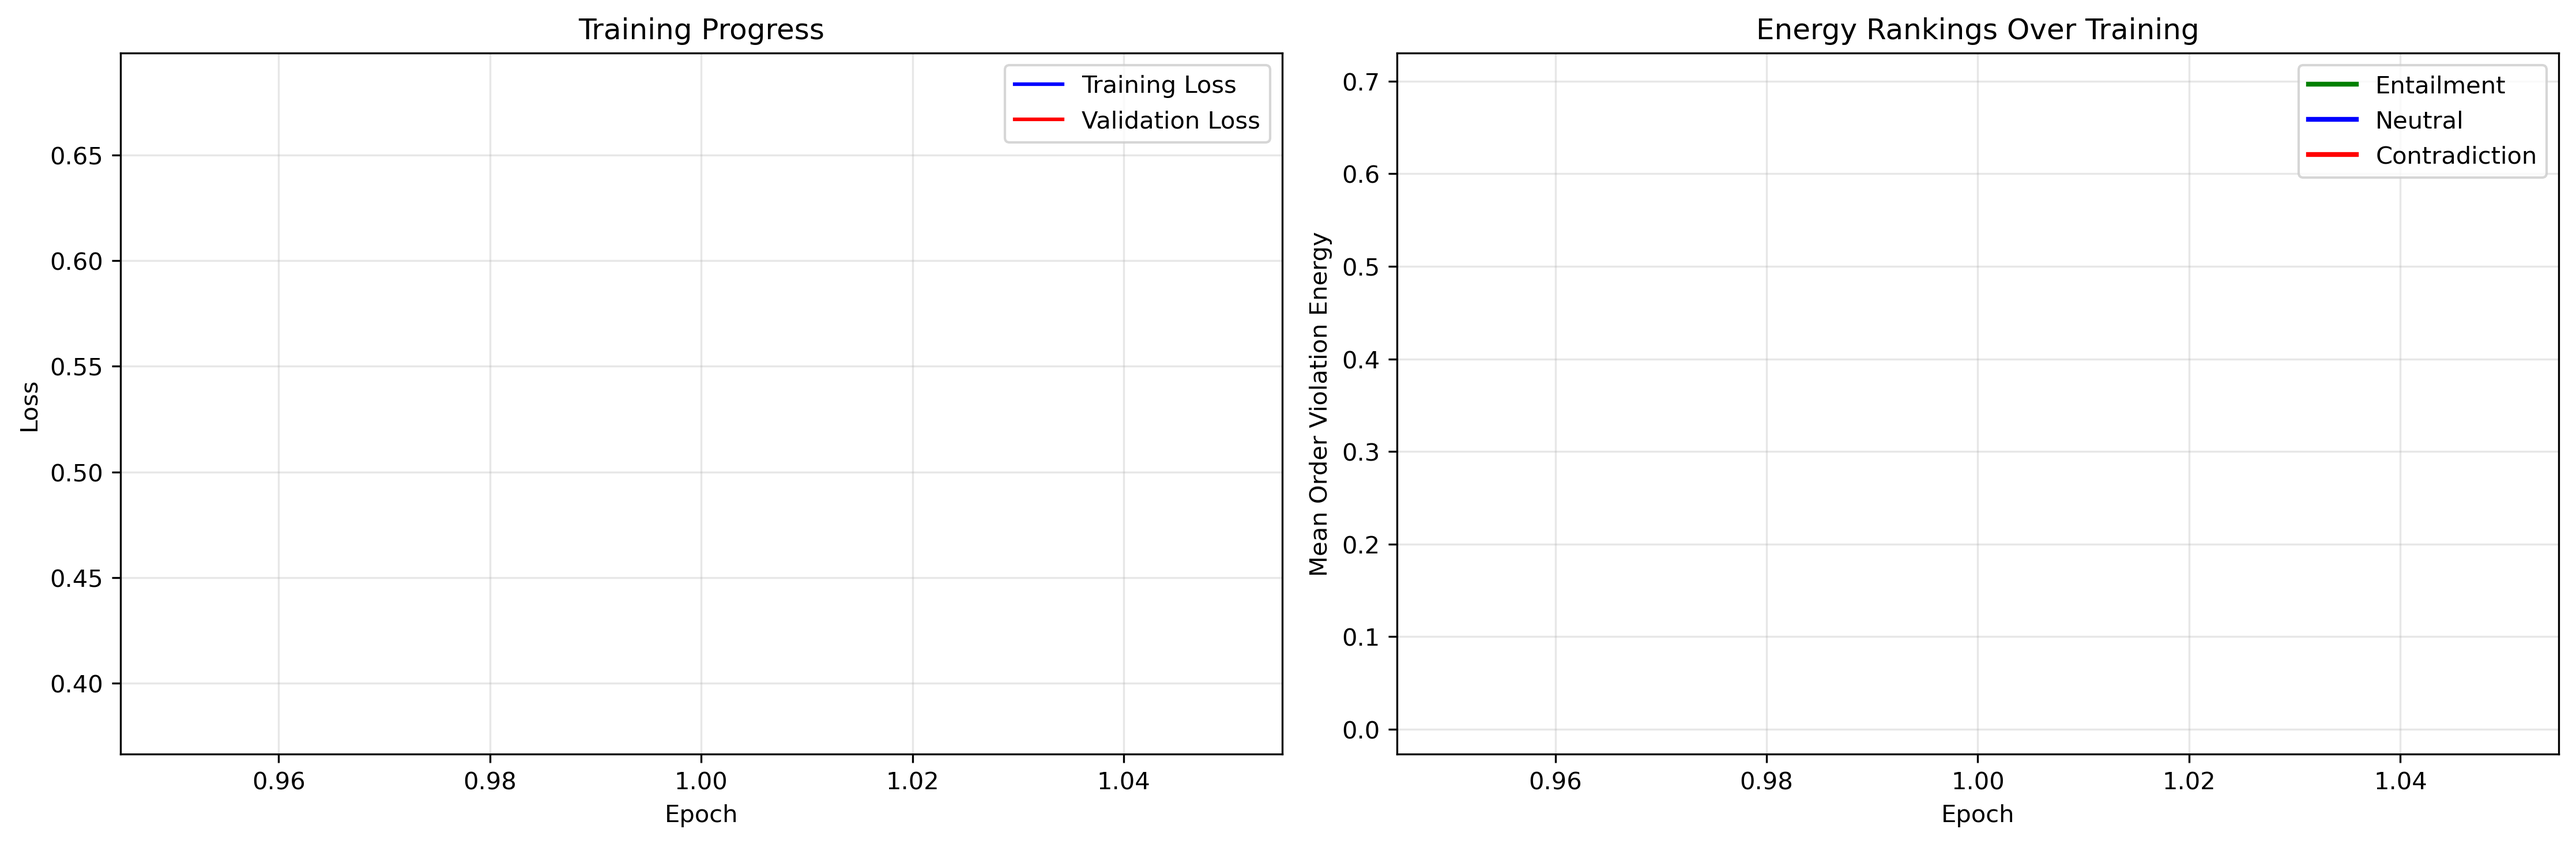
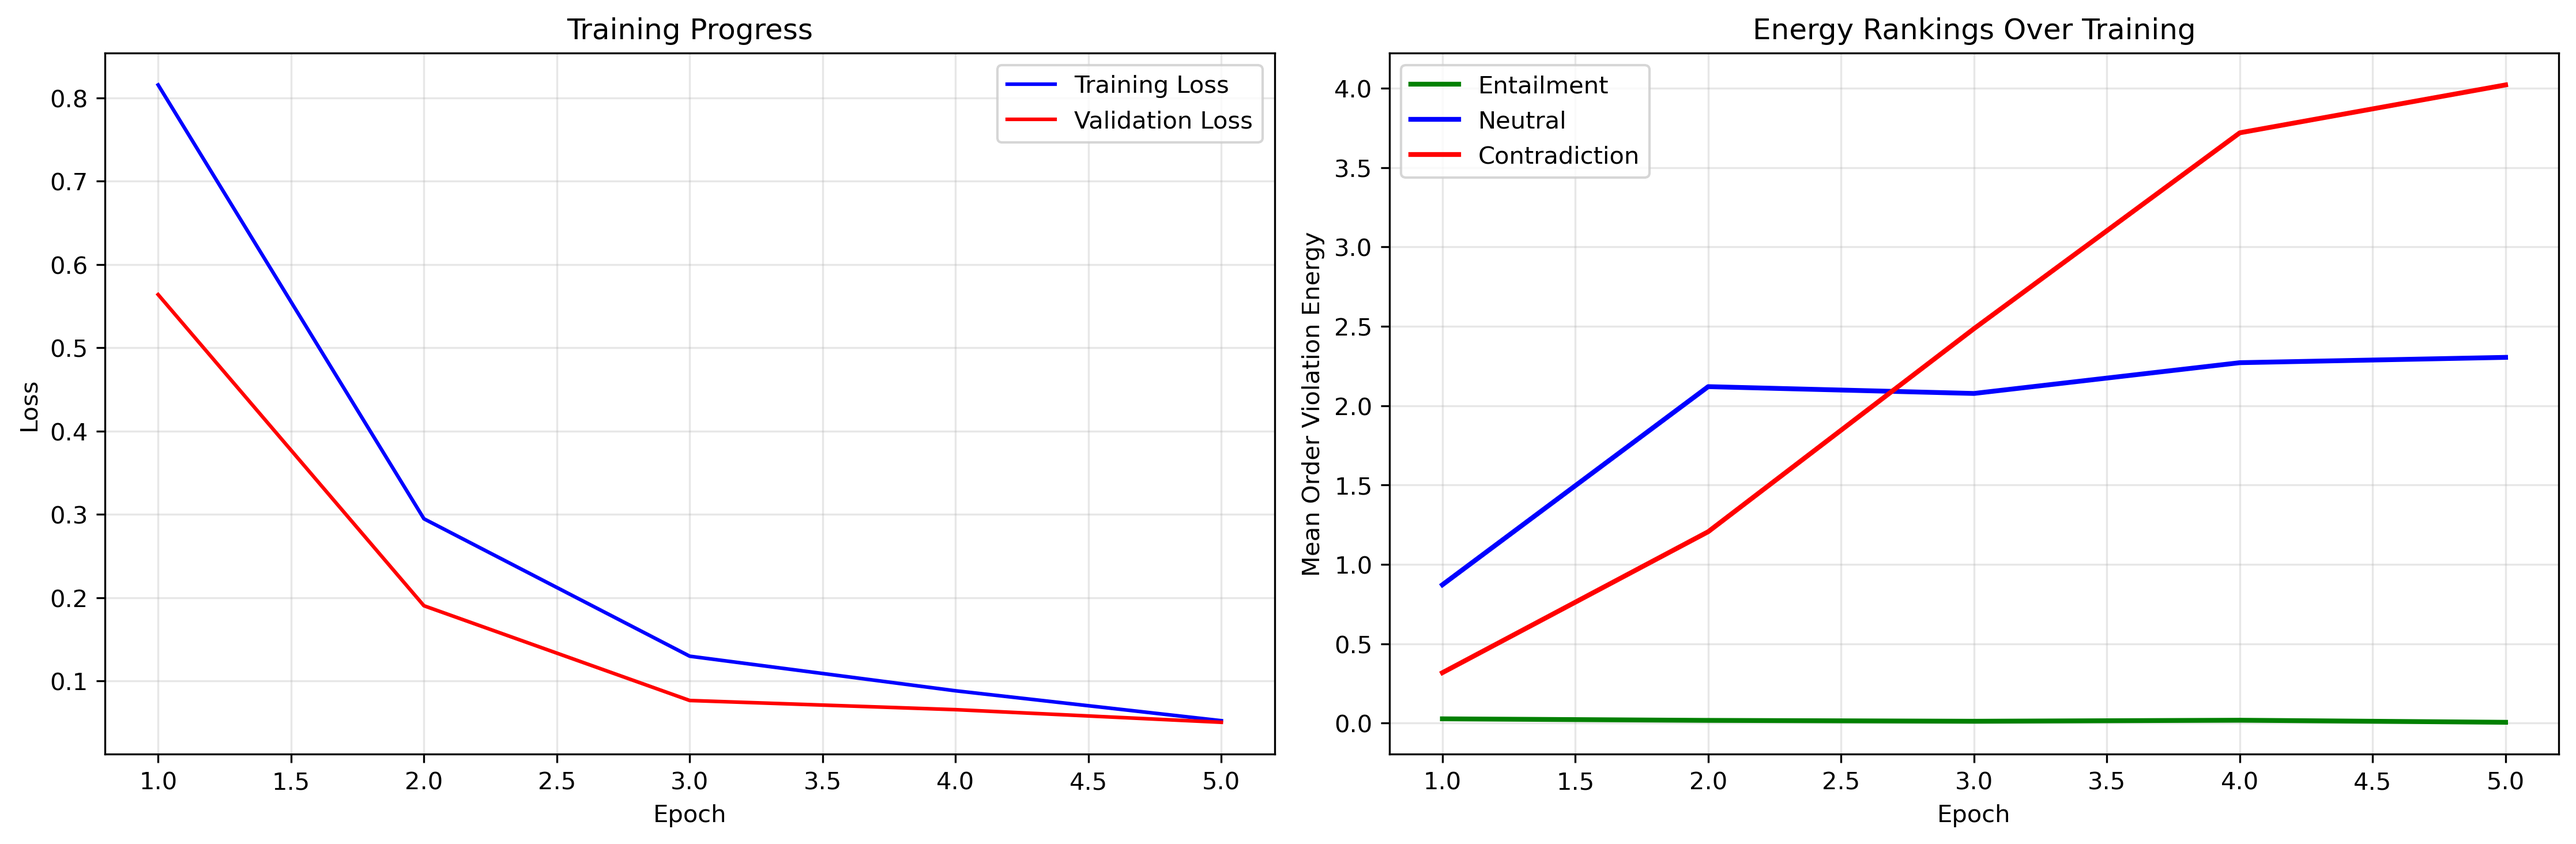
Fixed bug in order embeddings code, plots now working correctly

diff --git a/src/order_embeddings.py b/src/order_embeddings.py
@@ -299,8 +299,8 @@ def train_order_embeddings(processed_data_path: str, output_dir: str = "models/"
             print(f"Early stopping at epoch {epoch + 1}")
             break
 
-        print("Training completed")
-        return model, trainer
+    print("Training completed")
+    return model, trainer
 
 
 def validate_energy_rankings(trainer: OrderEmbeddingTrainer) -> bool:
@@ -389,7 +389,7 @@ def test_order_embeddings():
 
     model, trainer = train_order_embeddings(
         processed_data_path=processed_data_path,
-        epochs=30,
+        epochs=5, #smaller for toy dataset
         batch_size=16,
         order_dim=20 #Smaller for toy dataset
     )
